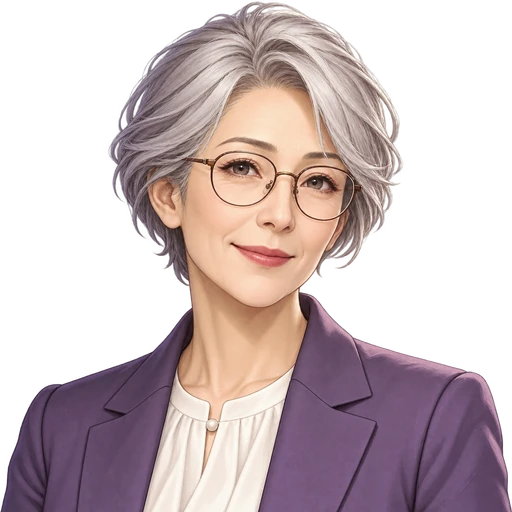
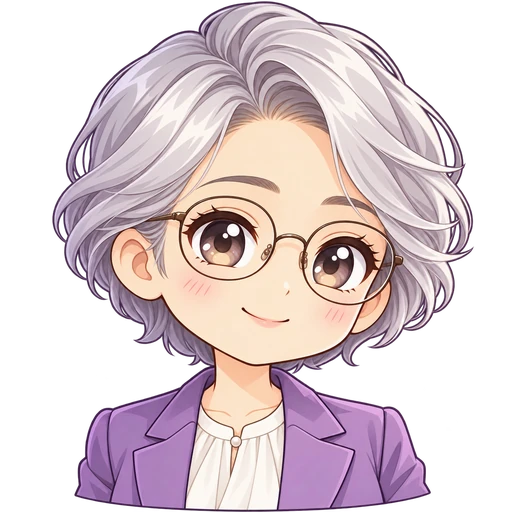
素材: 専門家8人の肖像をかわいいアニメ調に更新

diff --git a/docs/assets/expert-portraits-v1/README.md b/docs/assets/expert-portraits-v1/README.md
@@ -1,10 +1,15 @@
-# MACRO NATION 専門家肖像 v1
+# MACRO NATION 専門家肖像 アニメ版 v2
 
-2026-10-02に、既存プロフィールの服装・役割・価値観・口調から生成した8人の個別肖像です。
+2026-10-03に、既存プロフィールの服装・役割・価値観・口調を保ち、8人の個別肖像をかわいいアニメ調へ描き直しました。
+大きなきらきらした瞳、丸い輪郭、小さな口、頬の赤み、明るいセル塗りで統一しています。
+小さくデフォルメした上半身の肖像で、服装・髪型・眼鏡・表情による見分けやすさを保っています。
 専門家は架空の人物です。名前・役割・口調の正本は `packages/advisor-core/src/profiles.ts` のままです。
 年齢・髪型・表情などは肖像の視覚デザインであり、経済モデルや助言の仕様を追加しません。
 
 ## ファイル
+
+既存の画像ファイル名と資料ディレクトリ `docs/assets/expert-portraits-v1/` は継続使用しています。
+今回の素材バージョンはmanifestの `expert-portraits-anime-v2` で識別できます。
 
 - `apps/web/public/experts/*.webp`：256×256の1x、512×512の2x。全16ファイル、透明背景。
 - `manifest.json`：expertId、portraitAssetKey、altText、寸法、容量、SHA-256。
